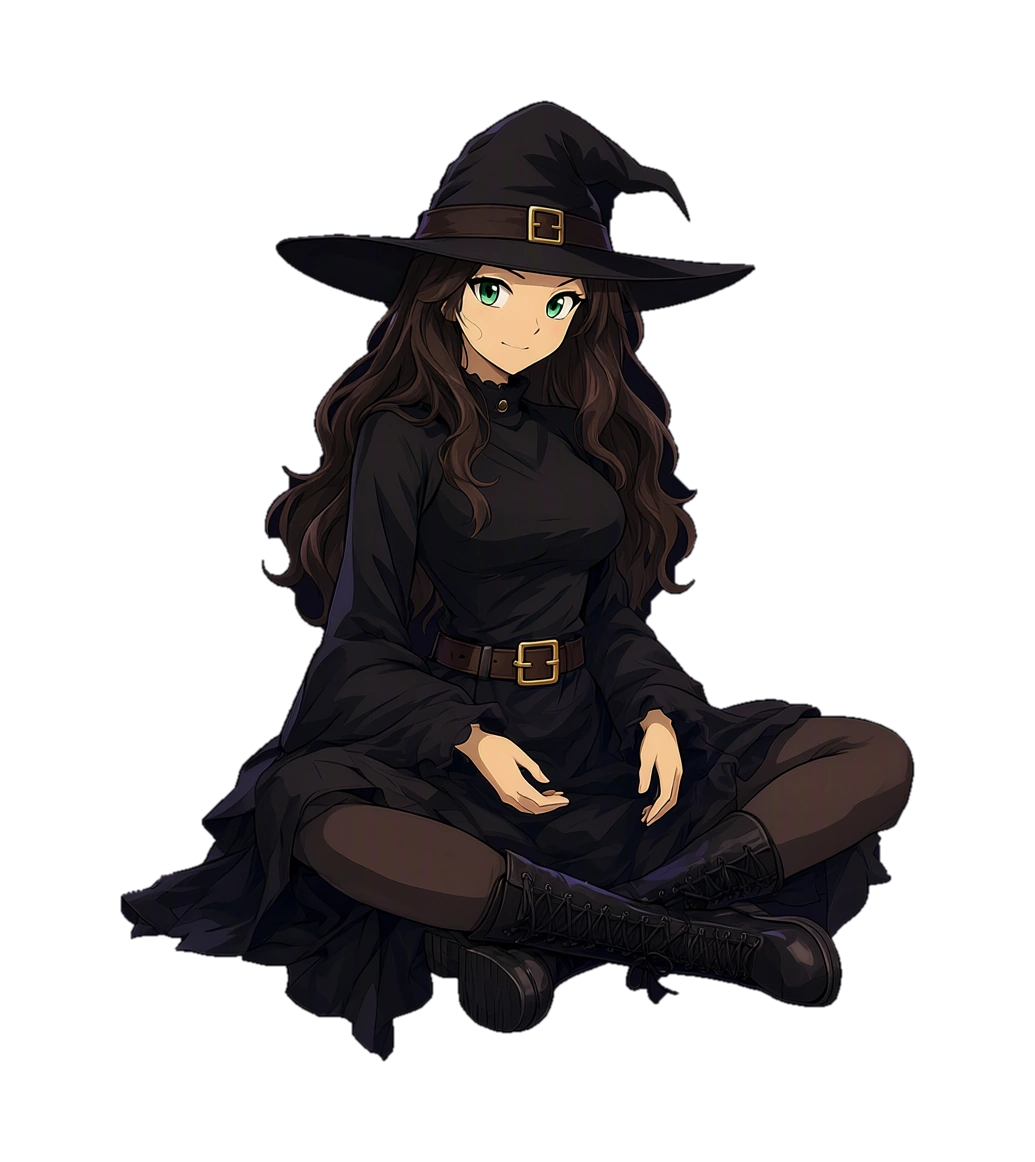
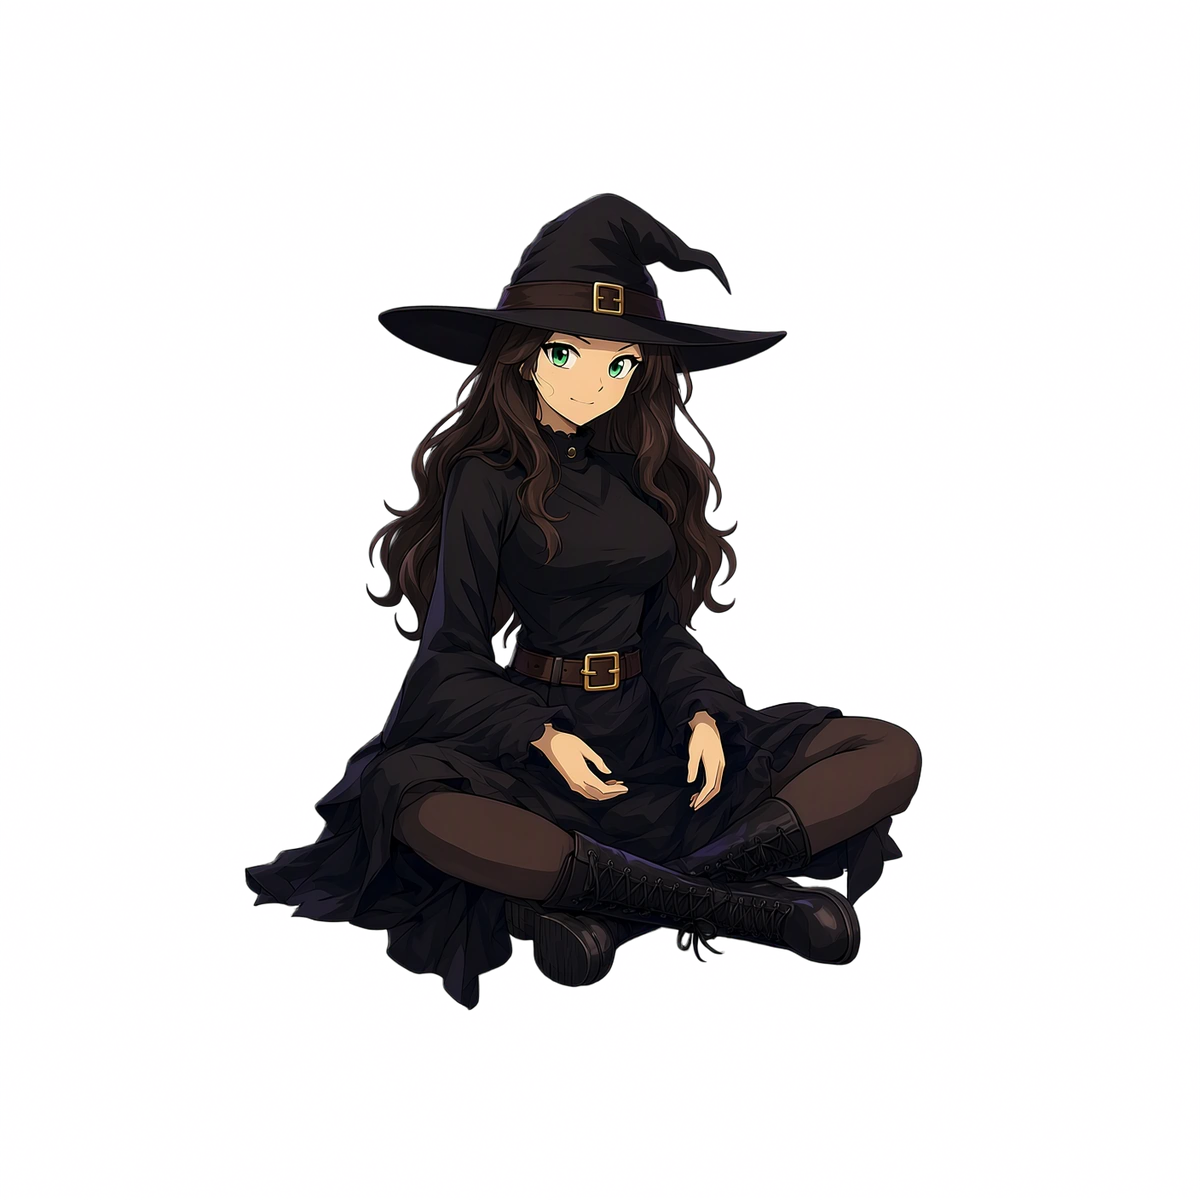
Use Qwen RGBA background removal for seated Kiki

Changed region(s): [[0.0928, 0.0929, 0.8966, 0.9294]]

diff --git a/docs/agents/kiki-assets.md b/docs/agents/kiki-assets.md
@@ -12,6 +12,7 @@
 - Workflow: `/home/aigen31/Work/ComfyUI/user/default/workflows/image_qwen_image_2_1_image_edit.json`; рабочие копии — `storage/app/kiki/*-workflow.json`.
 - `<image1>` — изображение, которое редактируется; `<image2>` — identity-кроп или плоский цветовой референс. Для релайта и предметных правок второй референс — сознательно **не персонаж**, иначе Qwen дублирует Кики.
 - Параметры: steps 30, cfg 1, euler/simple, seed индивидуальный, prompt enhancer off.
+- Для прозрачного seated-кадра использован штатный workflow **Remove Background: Qwen Image 2.1** (`image_qwen_image_2_1_background_removal`) — он отдаёт настоящий RGBA-альфа-канал, без ручного GrabCut.
 - Промпты сохраняются в `storage/app/kiki/*-workflow.json` (`459.prompt`).
 
 **Важно:** финальные иллюстрации — только растровые рендеры Qwen. Векторные карточки, монеты, чат-баблы и конфетти не рисуются кодом. Допустима только постобработка растра: кроп, alpha-cutout, выравнивание света.
@@ -25,7 +26,7 @@
 | `kiki-flight-hero.webp` | 900×620, RGBA | hero админ-дашборда |
 | `kiki-flight-avatar.webp` | 640×640, RGB | аватар из светлого полёта; полная высокая шляпа |
 | `kiki-flight-badge.webp` | 640×640, RGBA | empty states; шляпа целиком |
-| `kiki-seated.webp` | 1035×1162, RGBA | шаблоны задач, приветствие ассистента, empty; полное платье, высокая шляпа, боковые поля |
+| `kiki-seated.webp` | 1200×1200, RGBA | шаблоны задач и ассистент; RGBA-вырезание Qwen, полное платье, высокая шляпа, поля |
 | `kiki-desk.webp` | 1152×1024, RGB | клиентский дашборд, framed-карточка «за работой»; высокая шляпа |
 | `kiki-standing.webp` | 544×1632, RGBA | резерв: стоячая поза в светлой теме |
 | `kiki-hero.webp` | 1024×576, RGBA | старый спокойный кадр (резерв) |
